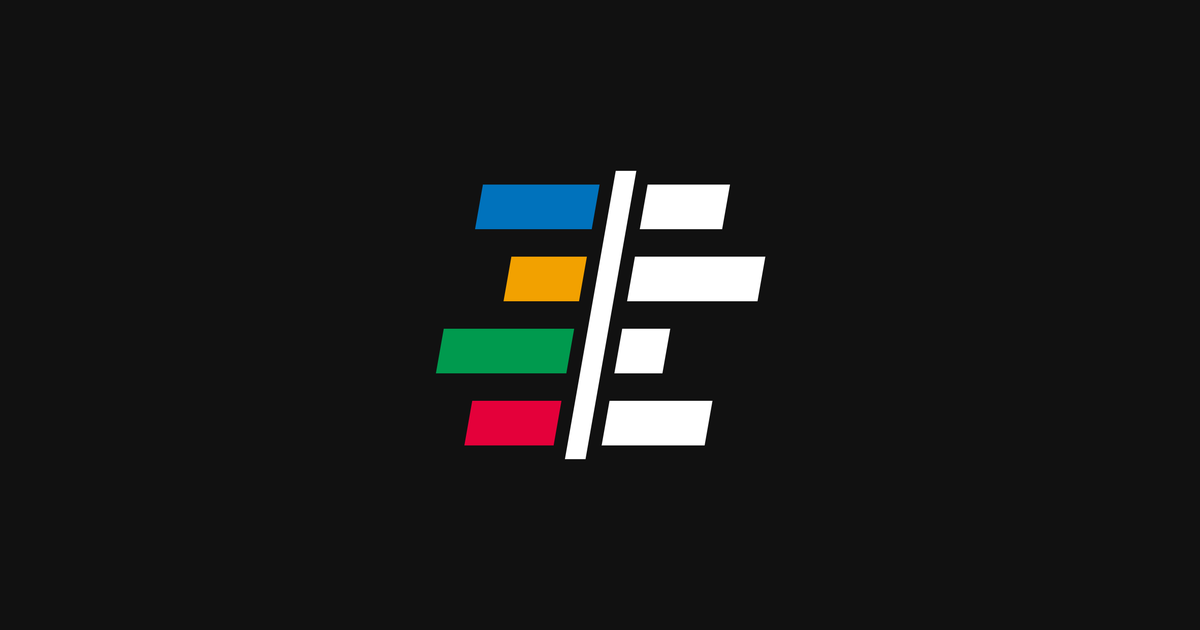
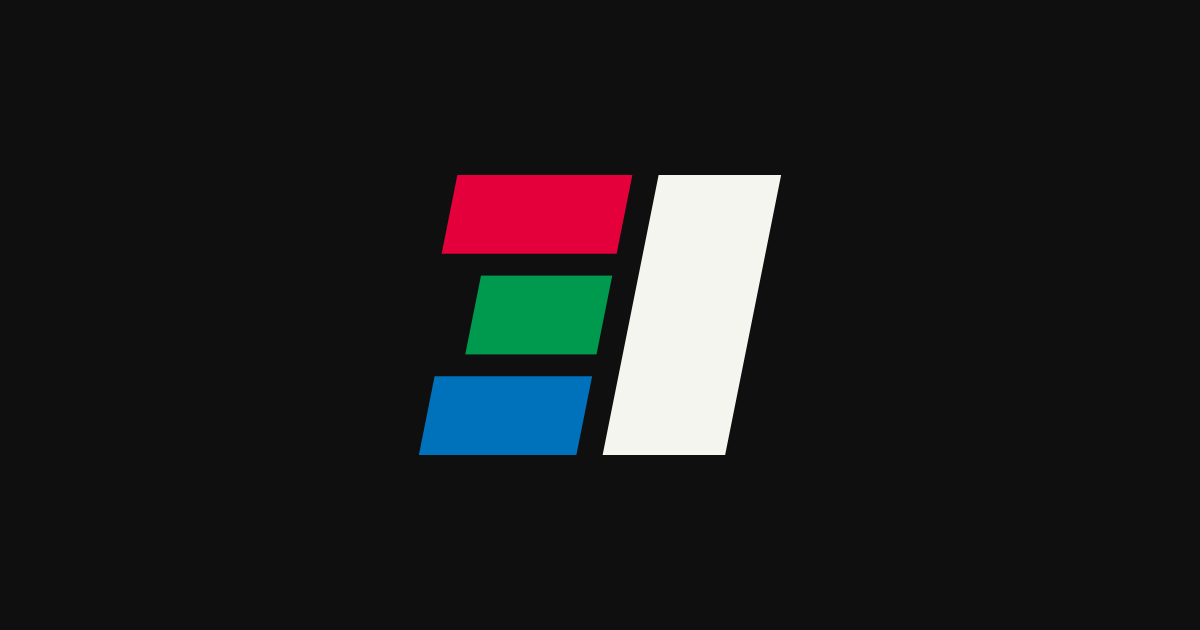
feat(web): add the healthcomp.app splash and not-found pages (#115)
## Summary

`https://healthcomp.app/` returned 404. This adds a minimal splash at
`/`, a real not-found page, and brings the invite images up to date with
the current app icon.

- **`web/index.html`**: the mark, "HealthComp" and "Coming soon to
iPhone", modeled on the app's sign-in screen (`AccountView.header`) with
the `Theme.swift` colors in light and dark. Move, Exercise and Stand
grow out of the slash, red then green then blue, once on load (CSS, so
there's no flash and it works without JavaScript) and again on each tap
(three lines of script). Reduce Motion turns the animation off.
- **`web/404.html`**: answers every unknown path with a 404. It has to
live next to `index.html`: without a top-level `404.html`, Pages
switches to single-page-app mode and serves the splash with 200 for
every path. The new check catches that.
- **`web/og.png`, `web/apple-touch-icon.png`**: redrawn from the current
`BrandMark` geometry. They still showed the four-bar logo from before
#108, so the Messages invite card and the invite page's icon didn't
match the app icon.
- **`scripts/verify-website.sh <base-url>`**: six smoke checks: `/` is
200; an unknown path is 404; `/invite/<fake token>` is 200 with
`no-store`, `no-referrer` and `noindex`; the association file is 200
`application/json` with no redirect; both images are 200. The runbook's
"Invitation domain" section points to it and records the index/404 rule.

No third-party requests or analytics anywhere. `invite.html`,
[…]

Changed region(s): [[0.3392, 0.2714, 0.6475, 0.754]]

diff --git a/web/index.html b/web/index.html
@@ -1,0 +1,62 @@
+<!doctype html>
+<html lang="en">
+<head>
+  <meta charset="utf-8">
+  <meta name="viewport" content="width=device-width, initial-scale=1">
+  <title>HealthComp</title>
+  <link rel="canonical" href="https://healthcomp.app/">
+  <meta property="og:site_name" content="HealthComp">
+  <meta property="og:title" content="HealthComp">
+  <meta property="og:image" content="https://healthcomp.app/og.png">
+  <meta property="og:image:width" content="1200">
+  <meta property="og:image:height" content="630">
+  <meta name="twitter:card" content="summary_large_image">
+  <link rel="icon" href="/apple-touch-icon.png">
+  <link rel="apple-touch-icon" href="/apple-touch-icon.png">
+  <style>
+    /* Tokens from HealthComp/App/Theme.swift. Ring colors appear only in the mark. */
+    :root { color-scheme: light dark; --ground: #FAFAF7; --ink: #111111; --secondary: #5E5E62; }
+    @media (prefers-color-scheme: dark) { :root { --ground: #0F0F10; --ink: #F5F5F0; --secondary: #A3A3A8; } }
+    body { margin: 0; min-height: 100vh; min-height: 100svh; display: grid; place-items: center; background: var(--ground);
+           color: var(--ink); font: 17px/1.45 -apple-system, BlinkMacSystemFont, "Helvetica Neue", sans-serif; text-align: center; }
+    main { padding: 24px; max-width: 480px; }
+    svg { display: block; width: 120px; margin: 0 auto; cursor: pointer; -webkit-tap-highlight-color: transparent; }
+    /* The ring bars grow out of the slash, where all three end: once on load, again on each tap. */
+    rect { transform-box: fill-box; transform-origin: right; }
+    .grow rect { animation: grow 450ms cubic-bezier(.25, 1.2, .5, 1) backwards; }
+    .grow rect:nth-child(2) { animation-delay: 150ms; }
+    .grow rect:nth-child(3) { animation-delay: 300ms; }
+    @keyframes grow { from { transform: scaleX(0); } }
+    @media (prefers-reduced-motion: reduce) { .grow rect { animation: none; } }
+    h1 { font-size: 44px; font-weight: 800; font-stretch: condensed; line-height: 1.1; margin: 16px 0 8px; }
+    p { margin: 0; color: var(--secondary); }
+    h1, p { text-wrap: balance; }
+  </style>
+</head>
+<body>
+  <main>
+    <!-- BrandMark from Theme.swift: Move, Exercise and Stand facing the opponent. The ring bars
+         are rects sheared to the mark's slant (0.2 across per unit down), so they can grow from
+         the slash, where all three end, without losing it. -->
+    <svg class="grow" viewBox="0 0 100 80" aria-hidden="true">
+      <g transform="matrix(1 0 -0.2 1 0 0)">
+        <rect fill="#E4003A" x="19" y="8" width="40" height="18"/>
+        <rect fill="#009A4E" x="29" y="31" width="30" height="18"/>
+        <rect fill="#0072BC" x="23" y="54" width="36" height="18"/>
+      </g>
+      <polygon fill="currentColor" points="63.4,8 91.4,8 78.6,72 50.6,72"/>
+    </svg>
+    <h1>HealthComp</h1>
+    <p>Coming soon to iPhone</p>
+  </main>
+  <script>
+    // Tapping the mark replays the grow: drop the class, flush styles, add it back.
+    const mark = document.querySelector("svg");
+    mark.addEventListener("click", () => {
+      mark.classList.remove("grow");
+      mark.getBoundingClientRect();
+      mark.classList.add("grow");
+    });
+  </script>
+</body>
+</html>

diff --git a/web/404.html b/web/404.html
@@ -1,0 +1,36 @@
+<!doctype html>
+<html lang="en">
+<head>
+  <meta charset="utf-8">
+  <meta name="viewport" content="width=device-width, initial-scale=1">
+  <title>Page not found</title>
+  <link rel="icon" href="/apple-touch-icon.png">
+  <style>
+    /* Pages serves this at any unknown path, so every URL here is absolute. */
+    :root { color-scheme: light dark; --ground: #FAFAF7; --ink: #111111; --secondary: #5E5E62; }
+    @media (prefers-color-scheme: dark) { :root { --ground: #0F0F10; --ink: #F5F5F0; --secondary: #A3A3A8; } }
+    body { margin: 0; min-height: 100vh; min-height: 100svh; display: grid; place-items: center; background: var(--ground);
+           color: var(--ink); font: 17px/1.45 -apple-system, BlinkMacSystemFont, "Helvetica Neue", sans-serif; text-align: center; }
+    main { padding: 24px; max-width: 420px; }
+    svg { display: block; width: 88px; margin: 0 auto; }
+    h1 { font-size: 28px; font-weight: 800; font-stretch: condensed; line-height: 1.15; margin: 16px 0 8px; }
+    p { margin: 0 0 28px; color: var(--secondary); }
+    h1, p { text-wrap: balance; }
+    a { display: block; padding: 16px; border-radius: 14px; background: var(--ink); color: var(--ground);
+        font-weight: 600; text-decoration: none; }
+  </style>
+</head>
+<body>
+  <main>
+    <svg viewBox="0 0 100 80" aria-hidden="true">
+      <polygon fill="#E4003A" points="17.4,8 57.4,8 53.8,26 13.8,26"/>
+      <polygon fill="#009A4E" points="22.8,31 52.8,31 49.2,49 19.2,49"/>
+      <polygon fill="#0072BC" points="12.2,54 48.2,54 44.6,72 8.6,72"/>
+      <polygon fill="currentColor" points="63.4,8 91.4,8 78.6,72 50.6,72"/>
+    </svg>
+    <h1>Page not found</h1>
+    <p>There’s no page at this address. Check it for typos.</p>
+    <a href="/">Go to the home page</a>
+  </main>
+</body>
+</html>

diff --git a/docs/runbooks/supabase-environments.md b/docs/runbooks/supabase-environments.md
@@ -487,10 +487,15 @@ Both hosts serve the static site in `web/` from one Cloudflare Pages project:
   its own host;
 - `/invite/*` serves `invite.html`, whose Open Graph tags give Messages its rich
   preview and whose button falls back to `healthcomp://invite/<token>`;
-- the page never claims the token; claiming stays in the app.
+- the page never claims the token; claiming stays in the app;
+- `/` is a splash page and `404.html` answers every other path. Keep both:
+  without a top-level `404.html`, Pages serves `index.html` with 200 for any
+  unknown path.
 
 Pages deploys `web/` on every push to `main`; DNS is on Cloudflare (registrar
-stays GoDaddy). Verify
+stays GoDaddy). `scripts/verify-website.sh <base-url>` checks both pages, the
+invite headers and the association file on a Pages preview or either host.
+Verify
 `https://app-site-association.cdn-apple.com/a/v1/<host>` returns the file, then
 test cold/warm opening on a signed physical device. The Supabase
 apple-app-site-association Function and HEALTHCOMP_AASA_APP_IDS are not used.
